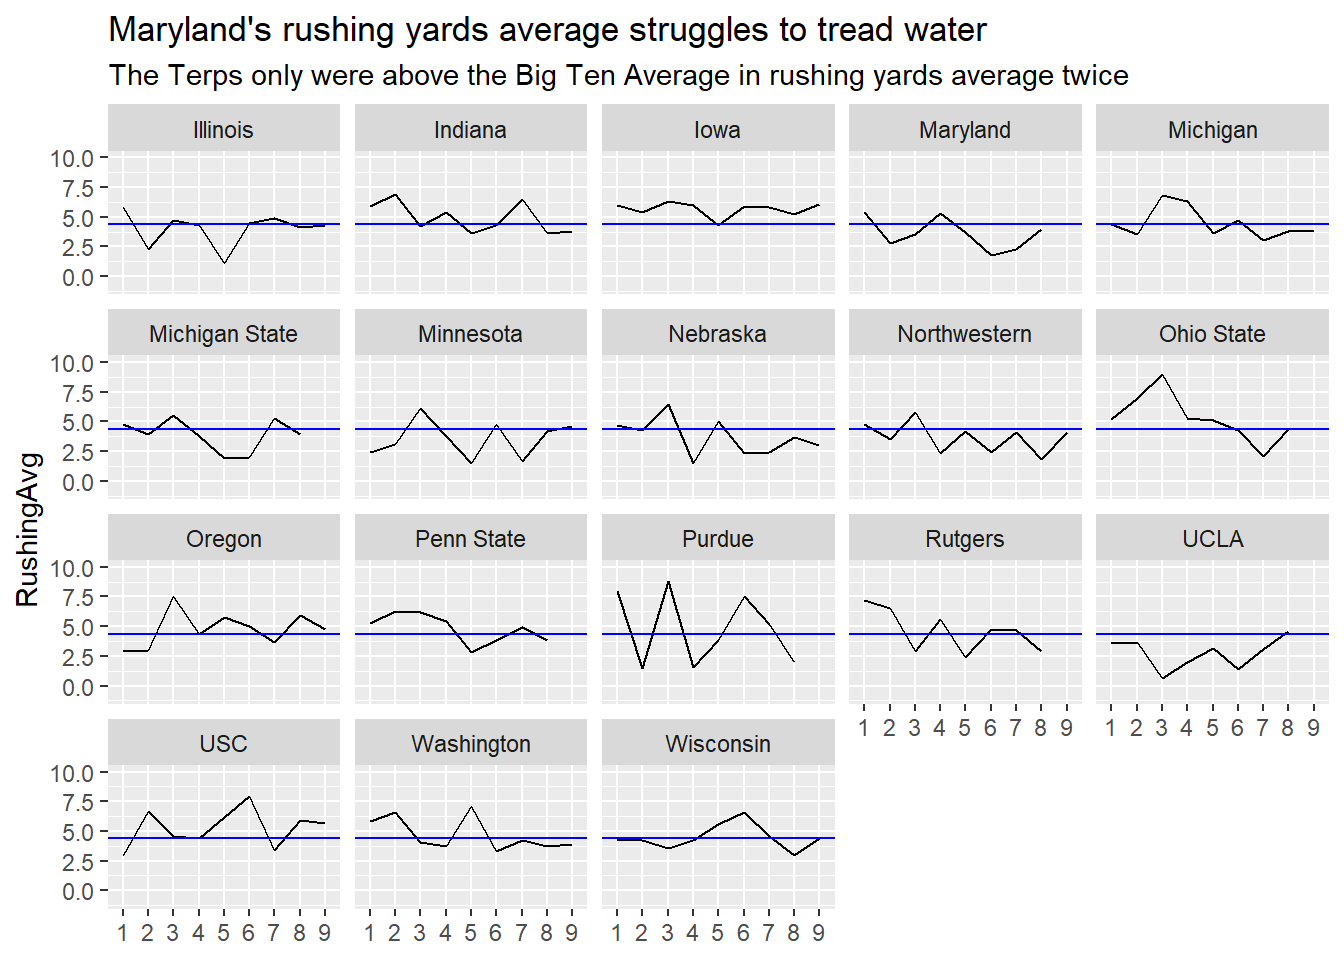
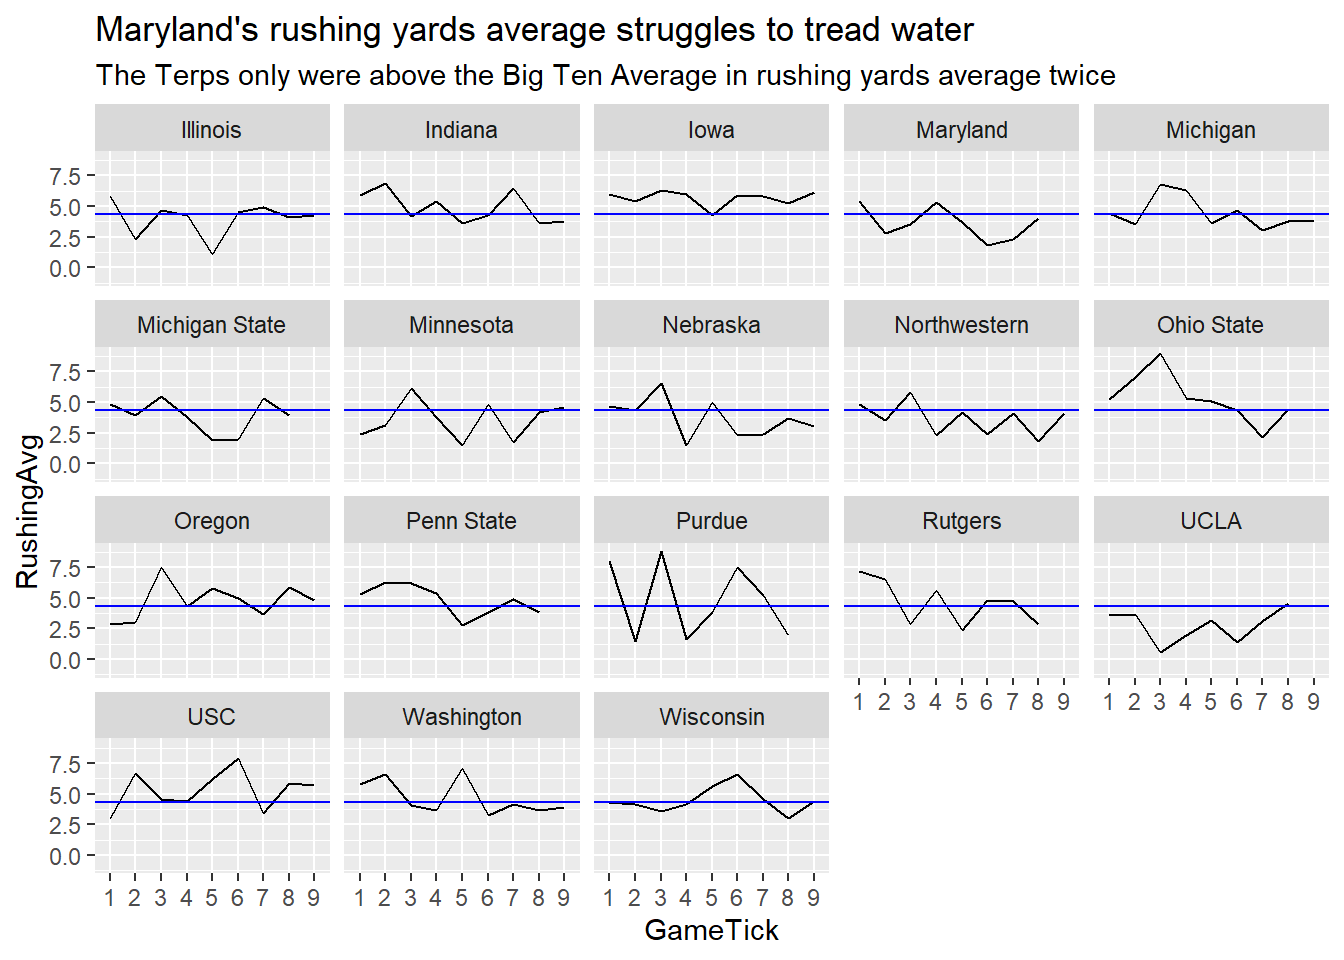
d

diff --git a/docs/docs/posts/RunEmpty/index.html b/docs/docs/posts/RunEmpty/index.html
@@ -209,7 +209,7 @@ pre > code.sourceCode > span > a:first-child::before { text-decoration: underlin
 <span id="cb3-3"><a href="#cb3-3" aria-hidden="true" tabindex="-1"></a>big <span class="ot">&lt;-</span> foot <span class="sc">|&gt;</span> <span class="fu">filter</span>(Conference <span class="sc">==</span> <span class="st">"Big Ten Conference"</span>) <span class="sc">|&gt;</span> <span class="fu">mutate</span>(<span class="at">GameTick =</span> <span class="fu">as.character</span>(Game)) <span class="sc">|&gt;</span> <span class="fu">select</span>(Team,GameTick,RushingAvg)</span>
 <span id="cb3-4"><a href="#cb3-4" aria-hidden="true" tabindex="-1"></a><span class="fu">ggplot</span>() <span class="sc">+</span> </span>
 <span id="cb3-5"><a href="#cb3-5" aria-hidden="true" tabindex="-1"></a>  <span class="fu">geom_line</span>(<span class="at">data=</span>big, <span class="fu">aes</span>(<span class="at">x=</span>GameTick, <span class="at">y=</span>RushingAvg, <span class="at">group=</span>Team)) <span class="sc">+</span> </span>
-<span id="cb3-6"><a href="#cb3-6" aria-hidden="true" tabindex="-1"></a>  <span class="fu">scale_y_continuous</span>(<span class="at">limits =</span> <span class="fu">c</span>(<span class="sc">-</span><span class="dv">1</span>, <span class="dv">10</span>)) <span class="sc">+</span> <span class="fu">labs</span>(<span class="at">x=</span> big<span class="sc">$</span>Month) <span class="sc">+</span></span>
+<span id="cb3-6"><a href="#cb3-6" aria-hidden="true" tabindex="-1"></a>  <span class="fu">scale_y_continuous</span>(<span class="at">limits =</span> <span class="fu">c</span>(<span class="sc">-</span><span class="dv">1</span>, <span class="dv">9</span>))  <span class="sc">+</span></span>
 <span id="cb3-7"><a href="#cb3-7" aria-hidden="true" tabindex="-1"></a>    <span class="fu">geom_hline</span>(<span class="at">yintercept=</span> <span class="fl">4.362821</span>, <span class="at">color=</span><span class="st">"blue"</span>) <span class="sc">+</span> <span class="fu">labs</span>(<span class="at">title =</span> <span class="st">"Maryland's rushing yards average struggles to tread water"</span>, <span class="at">subtitle =</span> <span class="st">"The Terps only were above the Big Ten Average in rushing yards average twice"</span>) <span class="sc">+</span> </span>
 <span id="cb3-8"><a href="#cb3-8" aria-hidden="true" tabindex="-1"></a>  <span class="fu">facet_wrap</span>(<span class="sc">~</span>Team)</span></code><button title="Copy to Clipboard" class="code-copy-button"><i class="bi"></i></button></pre></div>
 </details>
